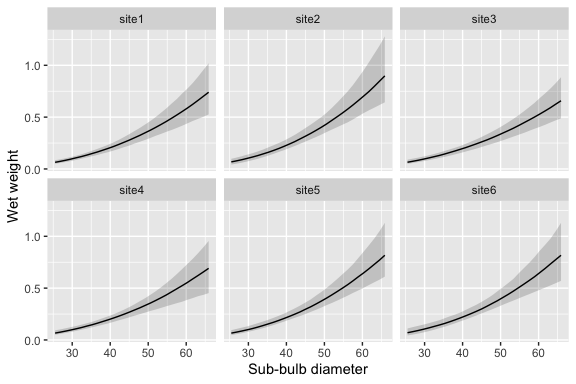
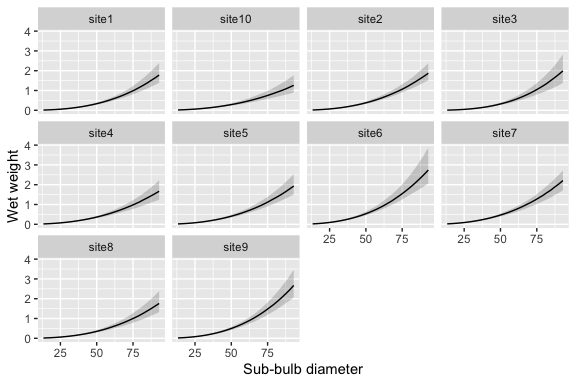
re-render readme with regenerated bundled fit

diff --git a/README.md b/README.md
@@ -58,12 +58,12 @@ head(data_weight_sim_nereo)
 #> # A tibble: 6 × 4
 #>   diameter weight site  year 
 #>      <dbl>  <dbl> <fct> <fct>
-#> 1     38.7  0.255 site1 2019 
-#> 2     52.7  0.264 site1 2019 
-#> 3     37.4  0.245 site1 2019 
-#> 4     46.8  0.273 site1 2019 
-#> 5     31.5  0.122 site1 2019 
-#> 6     61.4  0.831 site1 2019
+#> 1     53.8  0.473 site1 2019 
+#> 2     38.2  0.145 site1 2019 
+#> 3     25.2  0.051 site1 2019 
+#> 4     54.5  0.325 site1 2019 
+#> 5     25.6  0.045 site1 2019 
+#> 6     49.5  0.318 site1 2019
 ```
 
 Fit the model with `kb_fit_weight_nereo()`:
@@ -87,19 +87,19 @@ glance(fit)
 #> # A tibble: 1 × 8
 #>       n     K nchains niters nthin   ess  rhat converged
 #>   <int> <int>   <int>  <dbl> <int> <dbl> <dbl> <lgl>    
-#> 1    46    10       2    400     1  197.  1.01 TRUE
+#> 1   234    10       2    400     1  223.  1.02 TRUE
 
 tidy(fit)
 #> # A tibble: 7 × 4
-#>   term          estimate    lower  upper
-#>   <chr>            <dbl>    <dbl>  <dbl>
-#> 1 bWeight        -1.48   -1.62    -1.3  
-#> 2 bDiameter       2.56    2.14     2.97 
-#> 3 bDiameter2     -0.0132 -0.67     0.713
-#> 4 sSite           0.107   0.00744  0.354
-#> 5 sSiteDiameter   0.225   0.00777  0.871
-#> 6 sSiteYear       0.0911  0.00611  0.227
-#> 7 sWeight         0.209   0.152    0.295
+#>   term          estimate   lower  upper
+#>   <chr>            <dbl>   <dbl>  <dbl>
+#> 1 bWeight        -1.43   -1.62   -1.27 
+#> 2 bDiameter       2.51    2.34    2.69 
+#> 3 bDiameter2      0.0897 -0.093   0.289
+#> 4 sSite           0.229   0.137   0.489
+#> 5 sSiteDiameter   0.211   0.0723  0.451
+#> 6 sSiteYear       0.146   0.102   0.215
+#> 7 sWeight         0.164   0.145   0.189
 ```
 
 Predict the weight-diameter curve for each site with
@@ -117,19 +117,19 @@ table with a point estimate and `conf_level` compatibility limits for
 each row:
 
 ``` r
-new_data <- data.frame(diameter = c(20, 35, 50, 65, 80))
+new_data <- data.frame(diameter = c(20, 35, 50, 65, 80), site = "site1")
 
 set.seed(1)
 kb_predict_weight(fit, new_data)
-#> <kb_predictions> predictor: diameter | response: weight
-#> # A tibble: 5 × 4
-#>   diameter estimate  lower  upper
-#>      <dbl>    <dbl>  <dbl>  <dbl>
-#> 1       20   0.0362 0.0164 0.0801
-#> 2       35   0.151  0.101  0.247 
-#> 3       50   0.374  0.246  0.607 
-#> 4       65   0.746  0.38   1.36  
-#> 5       80   1.27   0.541  2.63
+#> <kb_predictions> predictor: diameter | response: weight | by: site
+#> # A tibble: 5 × 5
+#>   diameter site  estimate  lower  upper
+#>      <dbl> <chr>    <dbl>  <dbl>  <dbl>
+#> 1       20 site1   0.0318 0.0218 0.0461
+#> 2       35 site1   0.131  0.092  0.19  
+#> 3       50 site1   0.333  0.237  0.47  
+#> 4       65 site1   0.681  0.468  0.966 
+#> 5       80 site1   1.17   0.825  1.72
 ```
 
 The fitted object exposes the standard `rstantools` generics
@@ -138,7 +138,27 @@ directly with `bayesplot` and `loo`.
 
 ## Citation
 
-<!-- Citation guidance to follow once the `kb_` API is available. -->
+If you use kelpbio in your work, please cite it. Use `citation()` to get
+a formatted citation and BibTeX entry:
+
+``` r
+citation("kelpbio")
+#> To cite kelpbio in publications use:
+#> 
+#>   Dalgarno S (2026). _kelpbio: Bayesian Kelp Biomass Estimation_. R
+#>   package version 0.0.0.9000,
+#>   <https://github.com/HakaiInstitute/kelpbio>.
+#> 
+#> A BibTeX entry for LaTeX users is
+#> 
+#>   @Manual{,
+#>     title = {kelpbio: Bayesian Kelp Biomass Estimation},
+#>     author = {Seb Dalgarno},
+#>     year = {2026},
+#>     note = {R package version 0.0.0.9000},
+#>     url = {https://github.com/HakaiInstitute/kelpbio},
+#>   }
+```
 
 ## Licensing
 
